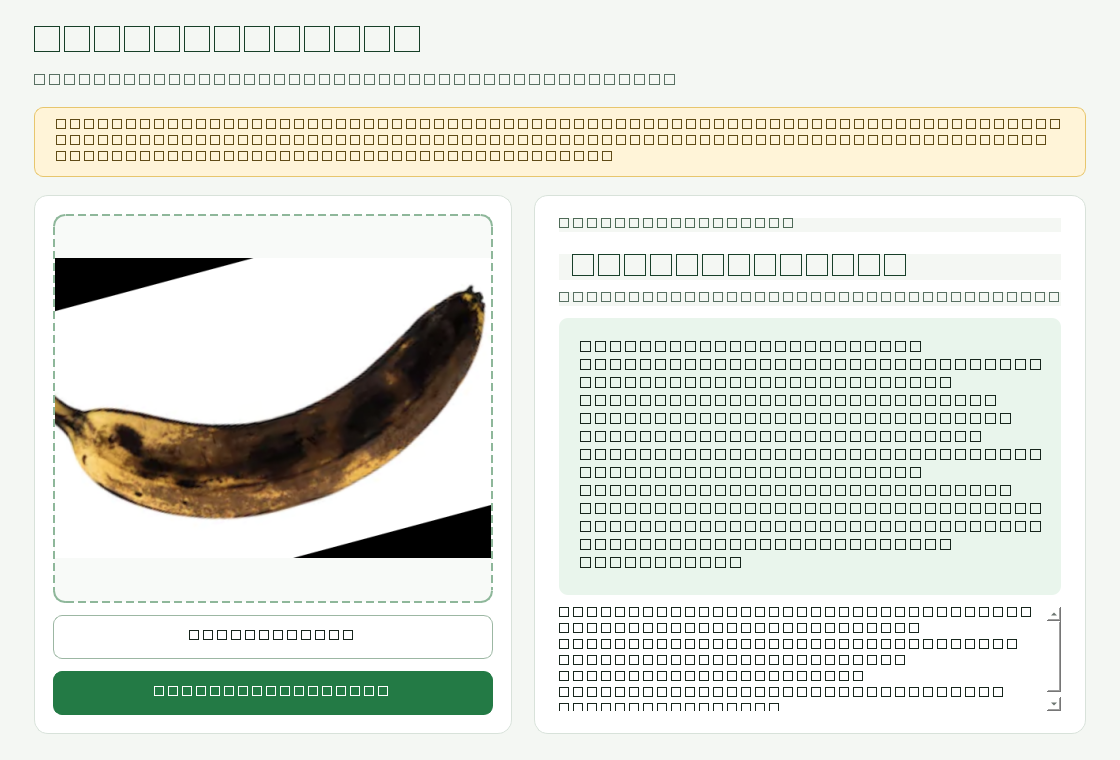
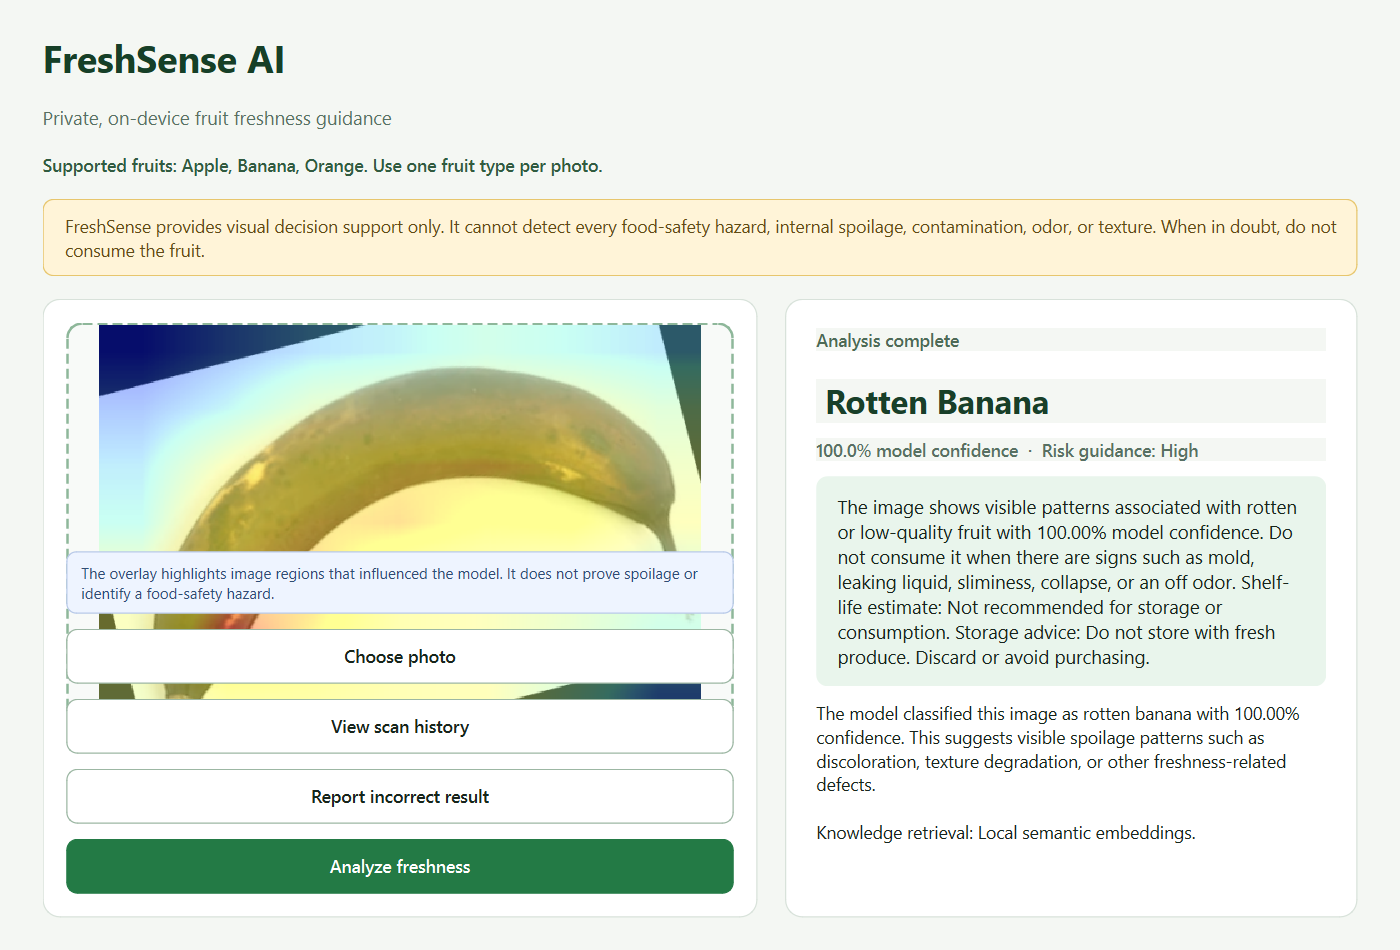
Fix unreadable FreshSense demo assets (#9)
Replace the broken README screenshot and walkthrough with reproducible captures from the real FreshSense desktop UI.

diff --git a/scripts/capture_desktop_demo.py b/scripts/capture_desktop_demo.py
@@ -1,0 +1,71 @@
+"""Capture a cursor-free screenshot from the real FreshSense desktop UI."""
+
+from __future__ import annotations
+
+import argparse
+from pathlib import Path
+import sys
+
+from PySide6.QtCore import QTimer
+from PySide6.QtGui import QFont
+from PySide6.QtWidgets import QApplication
+
+
+PROJECT_ROOT = Path(__file__).resolve().parents[1]
+if str(PROJECT_ROOT) not in sys.path:
+    sys.path.insert(0, str(PROJECT_ROOT))
+
+from desktop.history import ScanHistoryStore
+from desktop_app import MainWindow
+
+
+def main() -> int:
+    parser = argparse.ArgumentParser()
+    parser.add_argument("--image", required=True, type=Path)
+    parser.add_argument("--output", required=True, type=Path)
+    parser.add_argument("--timeout-seconds", type=int, default=90)
+    args = parser.parse_args()
+
+    image_path = args.image.resolve()
+    if not image_path.is_file():
+        raise FileNotFoundError(f"Demo image does not exist: {image_path}")
+
+    output_path = args.output.resolve()
+    output_path.parent.mkdir(parents=True, exist_ok=True)
+    history_path = PROJECT_ROOT / "work" / "demo_capture_history.json"
+
+    app = QApplication(sys.argv)
+    app.setApplicationName("FreshSense AI Demo Capture")
+    app.setOrganizationName("FreshSense")
+    app.setFont(QFont("Segoe UI", 10))
+    window = MainWindow(history_store=ScanHistoryStore(history_path))
+    window.show()
+
+    elapsed = 0
+    analysis_started = False
+
+    def poll() -> None:
+        nonlocal elapsed, analysis_started
+        elapsed += 1
+        if not analysis_started and window.agent is not None:
+            window.select_image(str(image_path))
+            window.analyze()
+            analysis_started = True
+        elif analysis_started and window.last_state is not None:
+            app.processEvents()
+            if not window.grab().save(str(output_path), "PNG"):
+                raise RuntimeError(f"Could not save demo screenshot: {output_path}")
+            print(f"Desktop screenshot: {output_path}")
+            app.quit()
+            return
+        if elapsed >= args.timeout_seconds:
+            raise TimeoutError("FreshSense demo capture timed out.")
+
+    timer = QTimer()
+    timer.timeout.connect(poll)
+    timer.start(1000)
+    return app.exec()
+
+
+if __name__ == "__main__":
+    raise SystemExit(main())